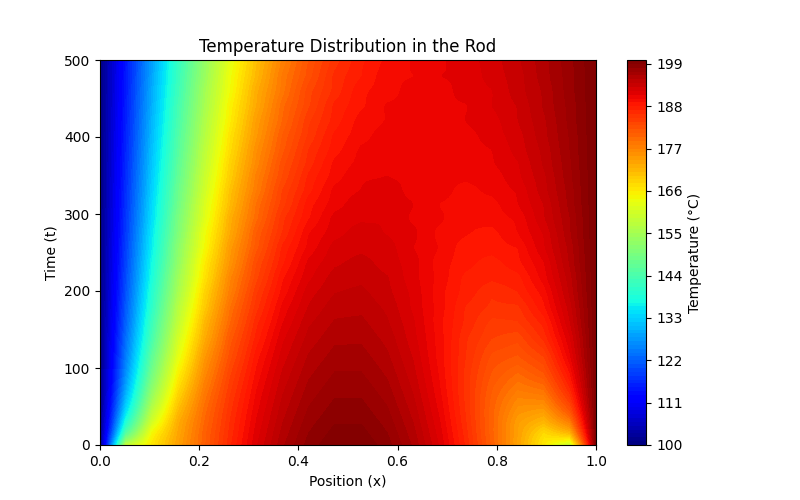
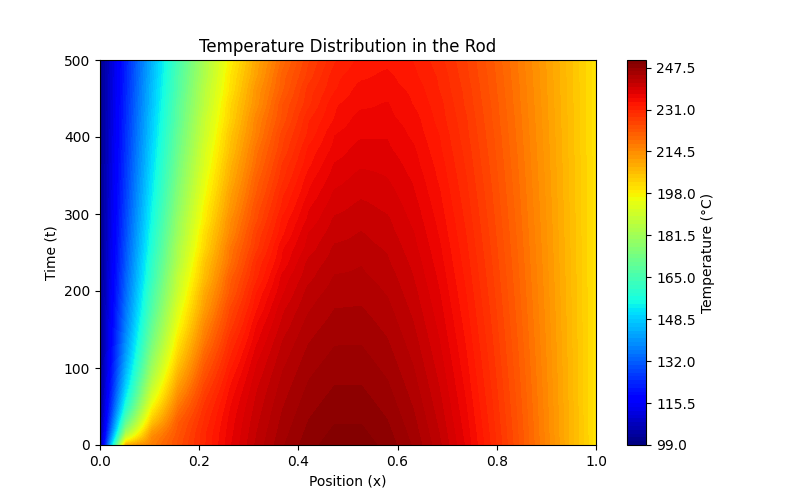
Update boundary conditions

diff --git a/heat_and_mass_transfer/problem_1/solution.py b/heat_and_mass_transfer/problem_1/solution.py
@@ -20,7 +20,9 @@ x = np.linspace(0, L, Nx)
 dx = x[1] - x[0]
 
 # Initial temperature distribution
-T_init = 150 + 50 * np.sin(np.pi * x / L)
+T_init = 200 + 50 * np.sin(np.pi * x / L)
+T_init[0] = T0
+T_init[-1] = T_L
 
 # PDE function (Method of Lines)
 def rhs_pde(t, T):
@@ -51,6 +53,5 @@ plt.colorbar(label='Temperature (°C)')
 plt.xlabel('Position (x)')
 plt.ylabel('Time (t)')
 plt.title('Temperature Distribution in the Rod')
-plt.savefig('result.png')
 
 plt.show()

diff --git a/heat_and_mass_transfer/problem_1/problem.md b/heat_and_mass_transfer/problem_1/problem.md
@@ -2,7 +2,7 @@
 
 A **1-meter-long** rod experiences **heat conduction** over time. The temperature at the left end (**x = 0**) is **100°C**, and at the right end (**x = L = 1 m**), it is **200°C**. The initial temperature distribution along the rod is given by:
 
-### T(x, 0) = 150 + 50 sin(πx/L)
+### T(x, 0) = 200 + 50 sin(πx/L)
 
 The rod's material properties are:
 
